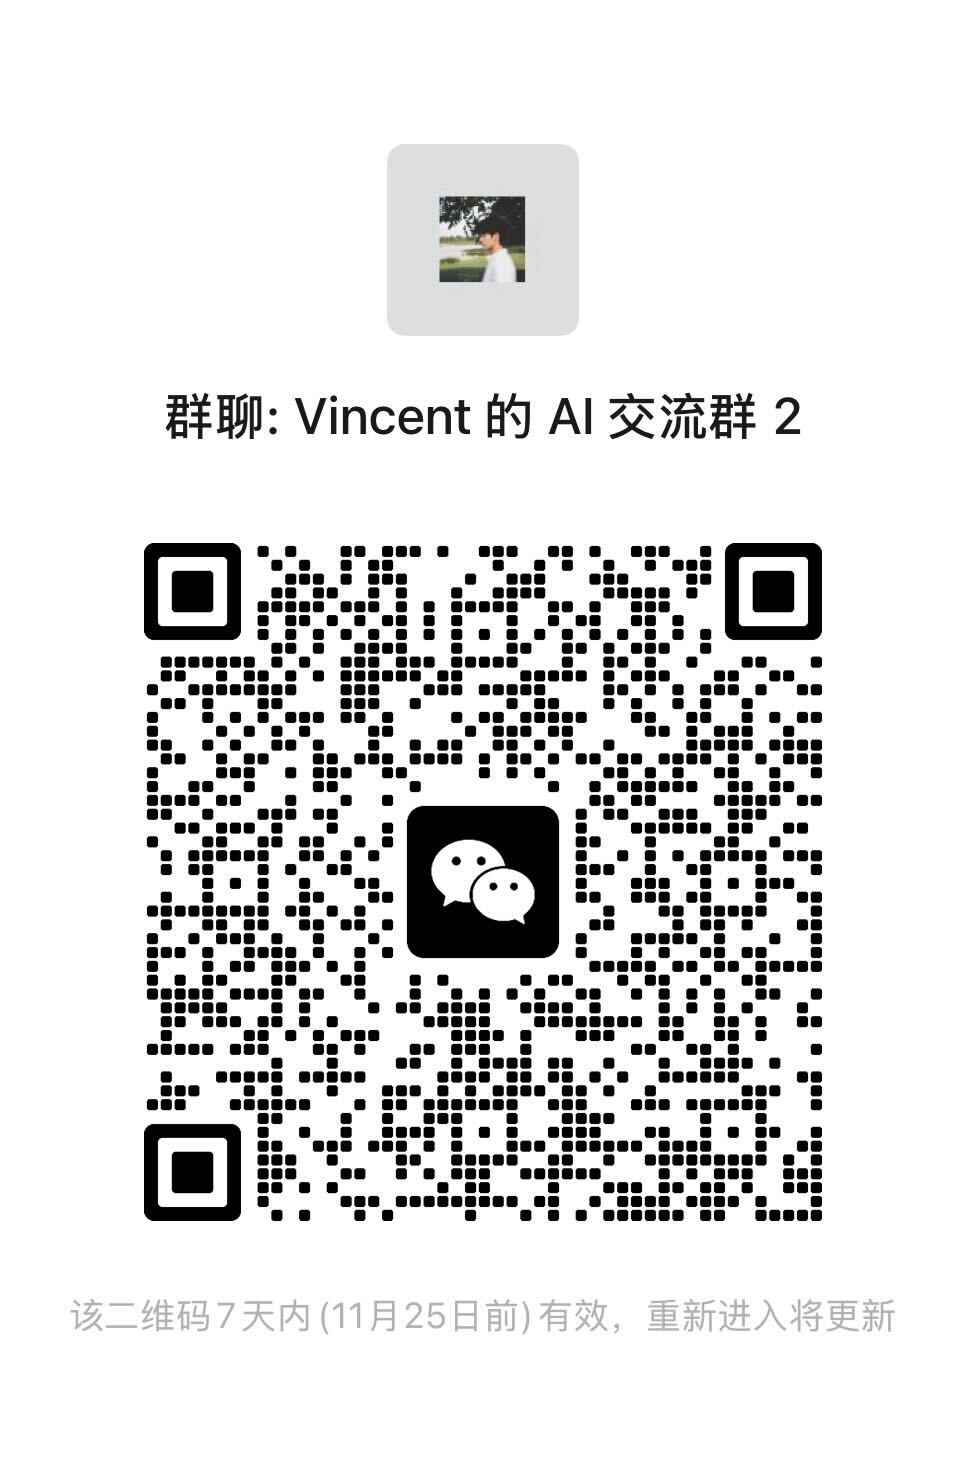
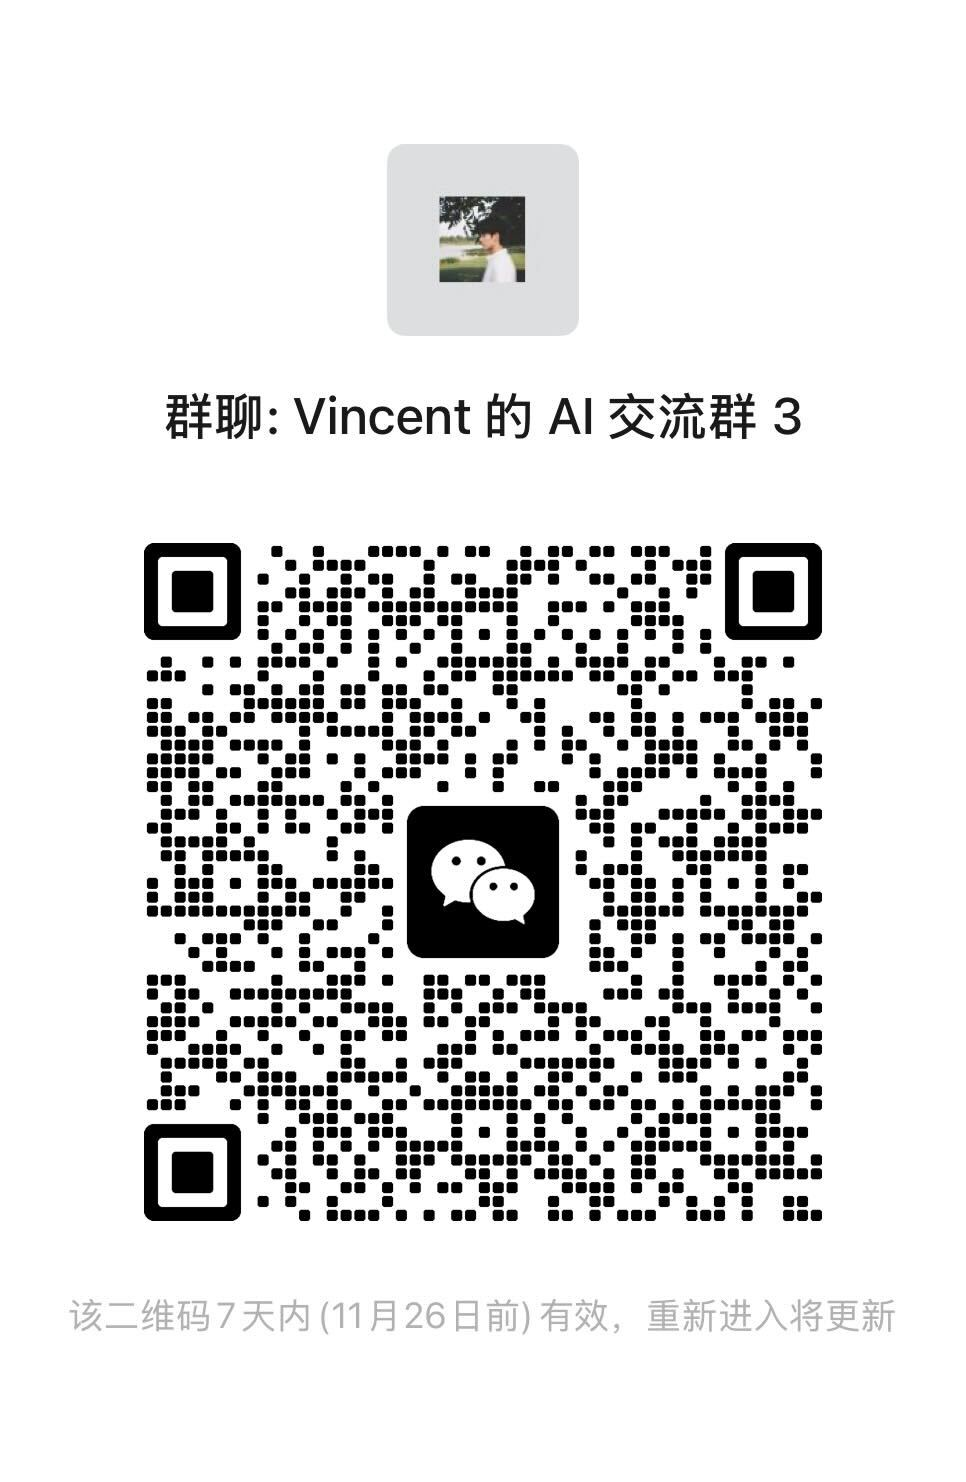
Update WeChat community to group 3

diff --git a/README_JA.md b/README_JA.md
@@ -295,10 +295,10 @@ GitHub の Issue を作成してください。
 
 ## 💬 WeChat グループ
 
-「Vincent 的 AI 交流群 2」で、AI アプリ、プログラミング、動画制作について交流しましょう。
+「Vincent 的 AI 交流群 3」で、AI アプリ、プログラミング、動画制作について交流しましょう。
 
-<a href="assets/wechat-group.jpg?v=2"><img src="assets/wechat-group.jpg?v=2" alt="Vincent の AI WeChat グループ参加用 QR コード" width="400"></a>
+<a href="assets/wechat-group.jpg?v=3"><img src="assets/wechat-group.jpg?v=3" alt="Vincent の AI WeChat グループ参加用 QR コード" width="400"></a>
 
 WeChat で QR コードを読み取って参加できます。スマートフォンでは画像を保存し、WeChat のスキャン機能でアルバムから選んでください。
 
-この QR コードは **2026-11-25 より前**まで有効です（WeChat の表示を優先）。期限切れの場合は、[X で Vincent に連絡](https://x.com/VincentWei93)して最新の参加方法を確認してください。
+この QR コードは **2026-11-26 より前**まで有効です（WeChat の表示を優先）。期限切れの場合は、[X で Vincent に連絡](https://x.com/VincentWei93)して最新の参加方法を確認してください。

diff --git a/README_EN.md b/README_EN.md
@@ -323,10 +323,10 @@ Sponsorship is entirely optional. Stars, feedback, and sharing are just as welco
 
 ## 💬 WeChat community
 
-Join “Vincent 的 AI 交流群 2” to chat about AI applications, coding, and video creation.
+Join “Vincent 的 AI 交流群 3” to chat about AI applications, coding, and video creation.
 
-<a href="assets/wechat-group.jpg?v=2"><img src="assets/wechat-group.jpg?v=2" alt="Vincent’s AI WeChat community QR code" width="400"></a>
+<a href="assets/wechat-group.jpg?v=3"><img src="assets/wechat-group.jpg?v=3" alt="Vincent’s AI WeChat community QR code" width="400"></a>
 
 Scan with WeChat to join. On a phone, save the image, then open WeChat’s Scan feature and select it from your album.
 
-This QR code is valid before **2026-11-25**, subject to WeChat’s notice. If it has expired, [contact Vincent on X](https://x.com/VincentWei93) for the latest way to join.
+This QR code is valid before **2026-11-26**, subject to WeChat’s notice. If it has expired, [contact Vincent on X](https://x.com/VincentWei93) for the latest way to join.

diff --git a/README.md b/README.md
@@ -294,10 +294,10 @@ agent 读方法论、选动效配方卡、写 [Remotion](https://www.remotion.de
 
 ## 💬 微信群
 
-欢迎加入「Vincent 的 AI 交流群 2」，一起交流 AI 应用、编程和视频创作。
+欢迎加入「Vincent 的 AI 交流群 3」，一起交流 AI 应用、编程和视频创作。
 
-<a href="assets/wechat-group.jpg?v=2"><img src="assets/wechat-group.jpg?v=2" alt="Vincent 的 AI 交流群 2 微信入群二维码" width="400"></a>
+<a href="assets/wechat-group.jpg?v=3"><img src="assets/wechat-group.jpg?v=3" alt="Vincent 的 AI 交流群 3 微信入群二维码" width="400"></a>
 
 用微信扫一扫加入。手机查看时，可保存图片，再在微信「扫一扫」中从相册选择。
 
-此二维码在 **2026-11-25 前**有效，以微信提示为准。若已失效，可[通过 X 联系 Vincent](https://x.com/VincentWei93)获取最新入群方式。
+此二维码在 **2026-11-26 前**有效，以微信提示为准。若已失效，可[通过 X 联系 Vincent](https://x.com/VincentWei93)获取最新入群方式。
